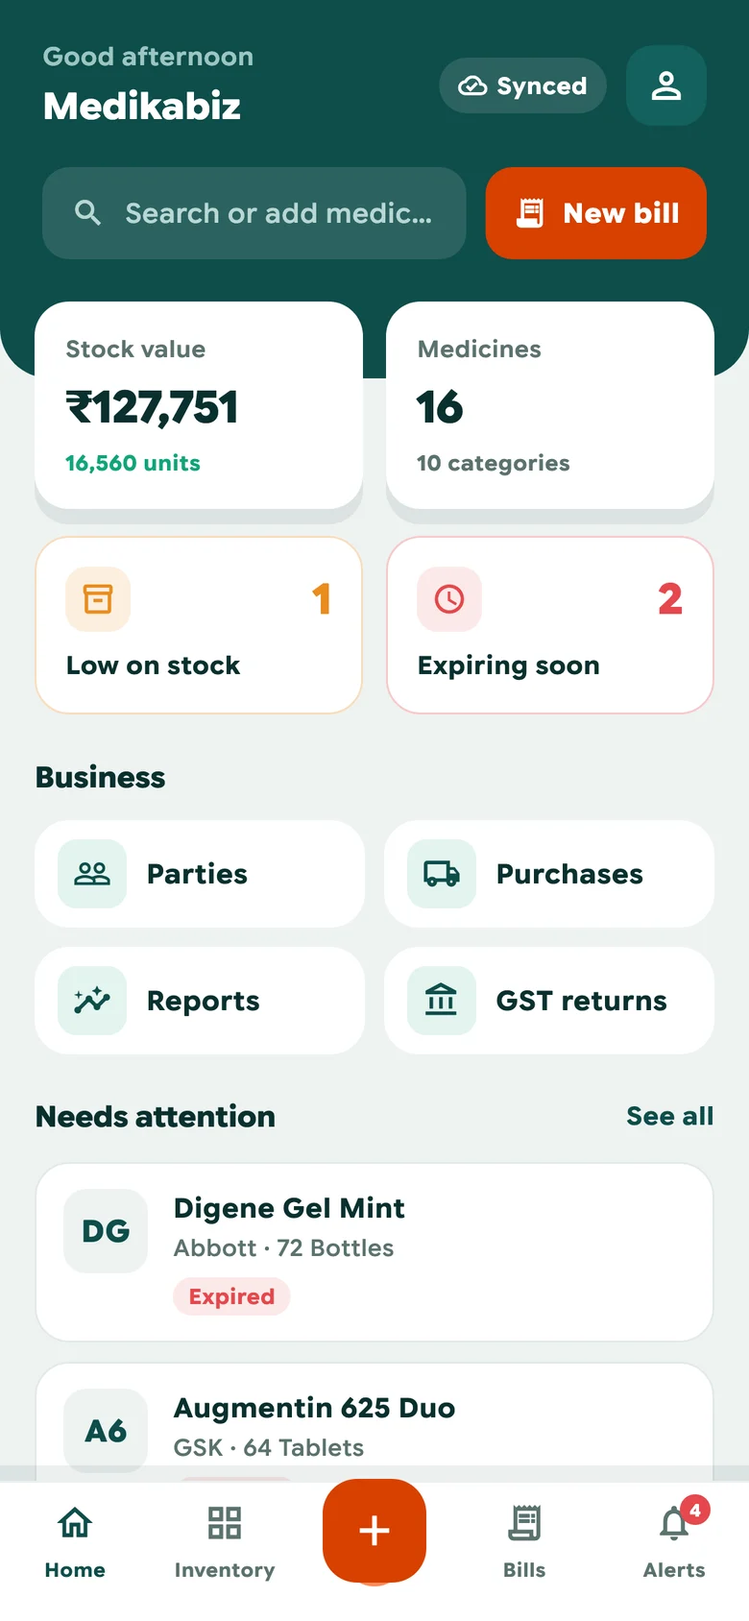
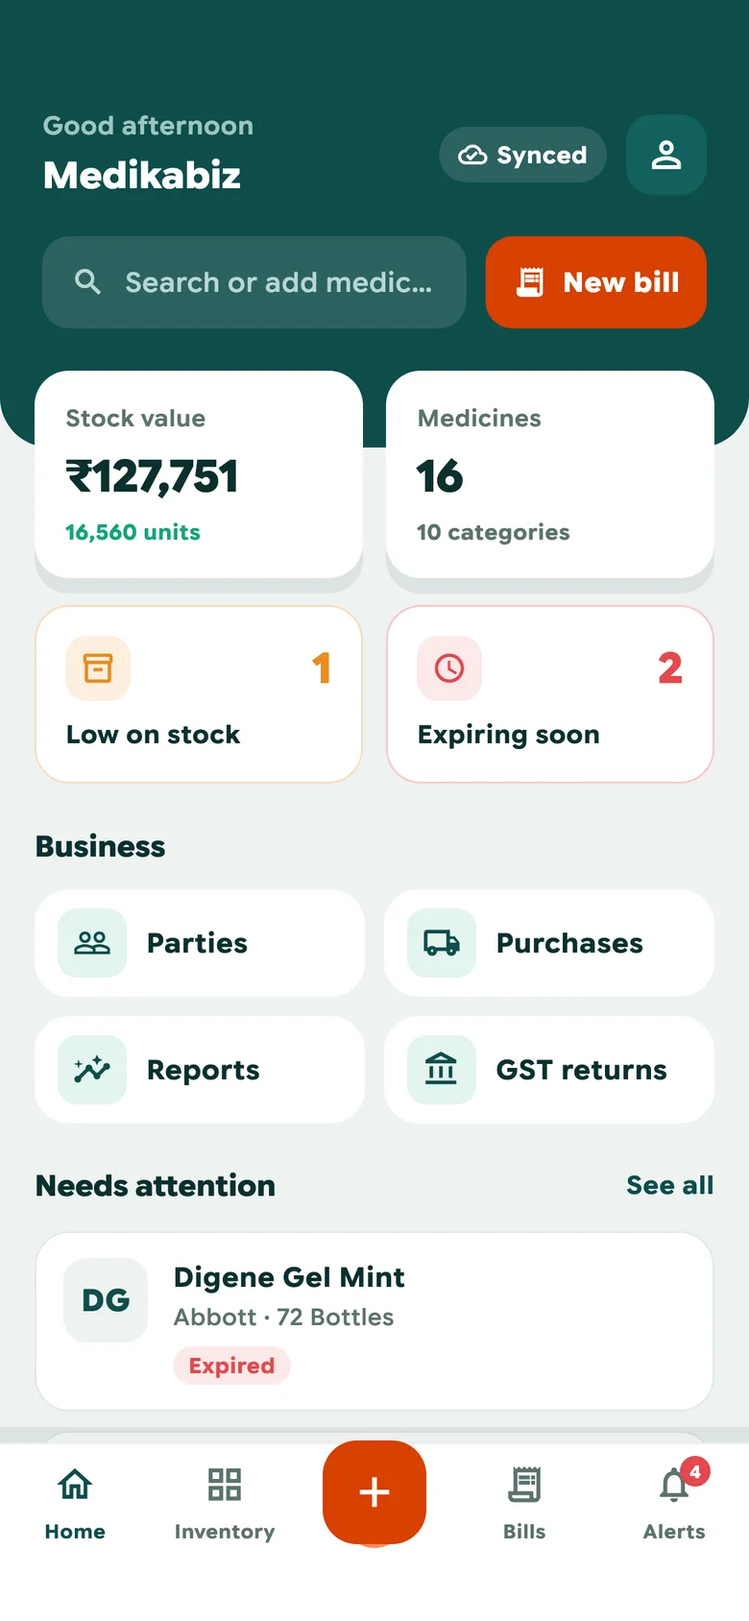
Website: header strip, downloads, full pricing cards and real device frames
The pricing cards held only a price, the header was part of the hero,
there was no way to download the app, and the phone screenshots had no
phone around them, so they looked drawn.

- The header is its own sticky strip (logo, sections, Start free trial);
  the logo has a transparent copy for it (medikabiz_logo_web.png).
- The hero has Android, Windows and Mac download buttons, and a Download
  section gives each device its file size, the systems it needs
  (Android 7+, Windows 10/11 64-bit, macOS 12+) and an install tip. The
  files go in public/downloads on the server (not in git).
- Pricing cards line up and each has a button and what is included;
  yearly shows 83 rupees a month.
- Phone screenshots are retaken with status and gesture bars and shown
  in a phone frame with the time, signal and battery; computer ones in
  an app window.

diff --git a/app/tool/website_screenshots_test.dart b/app/tool/website_screenshots_test.dart
@@ -76,6 +76,13 @@ Future<TestApp> _app(WidgetTester tester, Size size, double dpr,
     {FakeBackend? backend}) async {
   tester.view.physicalSize = size * dpr;
   tester.view.devicePixelRatio = dpr;
+  // A phone's status bar and gesture bar, so the app lays out as on a real
+  // phone; the website draws the status icons into that band.
+  if (size.width < 600) {
+    final FakeViewPadding bars = FakeViewPadding(top: 36 * dpr, bottom: 20 * dpr);
+    tester.view.padding = bars;
+    tester.view.viewPadding = bars;
+  }
   addTearDown(tester.view.reset);
   final TestApp app = await TestApp.create(signedIn: true, backend: backend);
   addTearDown(app.dispose);

diff --git a/backend/resources/views/website.blade.php b/backend/resources/views/website.blade.php
@@ -29,6 +29,7 @@
   --navy: #071D3B;
   --navy-2: #0E2A52;
   --navy-line: #1E3B66;
+  --head: #0A2448;
   --teal: #00B88D;
   --teal-ink: #00785C;
   --paper: #F3F7FA;
@@ -78,12 +79,21 @@ a:focus-visible, button:focus-visible, summary:focus-visible { outline: 3px soli
 @media (prefers-reduced-motion: reduce) { .btn { transition: none; } .btn:hover { transform: none; } }
 
 /* Header + hero */
-.top { display: flex; align-items: center; justify-content: space-between; gap: 16px; flex-wrap: wrap; margin-bottom: clamp(40px, 7vw, 72px); }
+.site-head { background: var(--head); border-bottom: 1px solid var(--navy-line); padding-left: max(16px, env(safe-area-inset-left, 0px)); padding-right: max(16px, env(safe-area-inset-right, 0px)); position: sticky; top: env(safe-area-inset-top, 0px); z-index: 20; }
+body::before { content: ""; position: fixed; inset: 0 0 auto; height: env(safe-area-inset-top, 0px); z-index: 21; background: var(--head); }
+.head-row { display: flex; align-items: center; justify-content: space-between; gap: 12px 24px; flex-wrap: wrap; padding-block: 12px; }
 .brand { display: block; line-height: 0; }
-.brand img { height: 44px; width: auto; }
-.nav { display: flex; gap: 6px 22px; flex-wrap: wrap; }
-.nav a { color: var(--mist); text-decoration: none; font-weight: 600; font-size: 0.95rem; padding: 10px 0; }
-.nav a:hover { color: #fff; }
+.brand img { height: 40px; width: auto; }
+.nav { display: flex; align-items: center; gap: 4px 22px; flex-wrap: wrap; }
+.nav a:not(.btn) { color: var(--mist); text-decoration: none; font-weight: 600; font-size: .95rem; padding: 12px 0; }
+.nav a:not(.btn):hover { color: #fff; }
+.btn-sm { min-height: 44px; padding: 0 18px; font-size: .92rem; border-radius: 12px; }
+.get { display: flex; flex-wrap: wrap; gap: 10px; }
+.store { display: inline-flex; align-items: center; gap: 10px; min-height: 52px; padding: 6px 16px 6px 12px; border-radius: 12px; background: #000; border: 1px solid #3A4B6E; color: #fff; text-decoration: none; font: 700 1.05rem/1.1 var(--display); }
+.store:hover { border-color: var(--teal); }
+.store svg { width: 26px; height: 26px; fill: currentColor; flex: none; }
+.store span { display: grid; }
+.store small { font: 500 .7rem/1.2 var(--body); color: #C9D3E3; }
 .hero { position: relative; overflow: hidden; }
 .hero::before, .hero::after { content: ""; position: absolute; border-radius: 50%; pointer-events: none; }
 .hero::before { width: 520px; height: 520px; right: -150px; top: -170px; background: var(--navy-2); box-shadow: 0 0 0 80px #0A2347; }
@@ -96,12 +106,31 @@ a:focus-visible, button:focus-visible, summary:focus-visible { outline: 3px soli
 .price-line { font: 700 1.45rem/1.2 var(--display); }
 .price-line span { color: var(--mist); font-weight: 600; font-size: 1rem; }
 .ctas { display: flex; flex-wrap: wrap; gap: 12px; }
-.platforms { color: var(--mist); font-size: .95rem; }
 
 .shots { position: relative; margin: 0 0 0 4%; min-width: 0; }
-.shots img { display: block; height: auto; }
-.shots .desk { width: 100%; border-radius: 14px; border: 1px solid var(--navy-line); box-shadow: 0 30px 70px rgba(0, 0, 0, .45); }
-.shots .hand { position: absolute; width: 27%; left: -9%; bottom: -12%; border-radius: 22px; border: 5px solid #0B1426; box-shadow: 0 24px 50px rgba(0, 0, 0, .5); }
+.shots .desk { box-shadow: 0 30px 70px rgba(0, 0, 0, .45); }
+.shots .hand { position: absolute; width: 28%; left: -10%; bottom: -14%; }
+
+/* Device frames around the real screenshots */
+.window { border-radius: 12px; overflow: hidden; border: 1px solid #C9D4DF; background: #fff; box-shadow: 0 16px 40px rgba(7, 29, 59, .14); }
+.window .bar { display: flex; align-items: center; justify-content: space-between; height: 32px; padding: 0 4px 0 12px; background: #E8EDF2; border-bottom: 1px solid #D6DEE6; color: #33435C; font: 600 .78rem/1 var(--body); }
+.window .bar-title { display: flex; align-items: center; gap: 8px; }
+.window .bar-ctl { display: flex; }
+.window .bar-ctl i { font-style: normal; width: 40px; text-align: center; color: #50617D; font-size: .8rem; }
+.window > img { display: block; width: 100%; height: auto; }
+.device { container-type: inline-size; }
+.device .frame { position: relative; padding: 2.8cqw; border-radius: 14cqw; background: linear-gradient(150deg, #2E3238, #0C0E11 60%); box-shadow: inset 0 0 0 .6cqw #464A52, inset 0 0 0 1.4cqw #15171B, 0 28px 60px rgba(4, 12, 28, .45); }
+.device .frame::before, .device .frame::after { content: ""; position: absolute; right: -1.1cqw; width: 1.2cqw; border-radius: 0 1cqw 1cqw 0; background: linear-gradient(90deg, #15171B, #3A3E45); }
+.device .frame::before { top: 20%; height: 7%; }
+.device .frame::after { top: 31%; height: 14%; }
+.device .screen { position: relative; overflow: hidden; border-radius: 11.4cqw; background: #000; }
+.device .screen img { display: block; width: 100%; height: auto; }
+.device .camera { position: absolute; z-index: 2; top: 2.6cqw; left: 50%; width: 3.8cqw; height: 3.8cqw; transform: translateX(-50%); border-radius: 50%; background: #050608; box-shadow: 0 0 0 .5cqw #1A1C21; }
+.device .status { position: absolute; z-index: 1; inset: 0 0 auto; height: 9.2cqw; display: flex; align-items: center; justify-content: space-between; padding: .6cqw 7cqw 0; font: 600 3.7cqw/1 -apple-system, "Segoe UI", Roboto, sans-serif; }
+.device .status.light { color: #fff; }
+.device .status.dark { color: #0A302E; }
+.device .sicons { display: flex; align-items: center; gap: 1.6cqw; }
+.device .sicons svg { height: 3.1cqw; width: auto; fill: currentColor; }
 
 .promise { margin-top: clamp(48px, 7vw, 80px); background: var(--navy-2); border: 1px solid var(--navy-line); border-radius: var(--radius); padding: 26px 28px; display: grid; grid-template-columns: auto 1fr; gap: 10px 28px; align-items: baseline; }
 .promise p { font: 700 clamp(1.15rem, 2.4vw, 1.5rem)/1.35 var(--display); }
@@ -117,8 +146,6 @@ a:focus-visible, button:focus-visible, summary:focus-visible { outline: 3px soli
 /* Screens */
 .gallery { display: grid; grid-template-columns: repeat(3, 1fr); gap: 20px; align-items: start; }
 .gallery figure { margin: 0; display: grid; gap: 12px; min-width: 0; }
-.gallery img { display: block; width: 100%; height: auto; border-radius: 18px; border: 1px solid var(--line); box-shadow: 0 14px 34px rgba(7, 29, 59, .12); }
-.gallery .tall img { border-radius: 26px; border: 5px solid var(--navy); }
 .gallery figcaption { color: var(--slate); font-size: .95rem; }
 .gallery figcaption b { color: var(--ink); font-family: var(--display); display: block; font-size: 1.05rem; }
 .gallery .wide { grid-column: 1 / -1; display: grid; grid-template-columns: 1.6fr 1fr; gap: 24px; align-items: center; }
@@ -142,20 +169,42 @@ a:focus-visible, button:focus-visible, summary:focus-visible { outline: 3px soli
 .step p { color: var(--slate); font-size: .95rem; }
 
 /* Pricing */
-.plans { display: grid; grid-template-columns: repeat(3, 1fr); gap: 18px; align-items: stretch; }
-.plan { border-radius: var(--radius); padding: 30px 26px; display: grid; gap: 12px; align-content: start; text-align: center; min-width: 0; }
+.plans { display: grid; grid-template-columns: repeat(3, 1fr); gap: 20px; align-items: stretch; }
+.plan { position: relative; border-radius: var(--radius); padding: 32px 28px; display: grid; grid-template-rows: subgrid; grid-row: span 3; gap: 24px; min-width: 0; }
 .plan.trialcard { background: var(--navy-2); border: 1px solid var(--navy-line); }
 .plan.paid { background: #fff; color: var(--ink); }
-.plan.best { box-shadow: 0 0 0 3px var(--teal); }
+.plan.best { box-shadow: 0 0 0 3px var(--teal), 0 24px 60px rgba(0, 0, 0, .35); }
+.plan-top { display: grid; gap: 6px; }
 .plan .name { font: 700 .82rem/1 var(--display); letter-spacing: .12em; text-transform: uppercase; color: var(--slate); }
 .plan.trialcard .name { color: var(--teal); }
-.plan .amount { font: 800 3rem/1 var(--display); font-variant-numeric: tabular-nums; }
+.plan .amount { font: 800 3.4rem/1 var(--display); font-variant-numeric: tabular-nums; margin-top: 10px; }
 .plan .per { color: var(--slate); font-weight: 600; }
-.plan.trialcard .per { color: var(--mist); }
-.plan .save { color: var(--teal-ink); font-weight: 700; }
-.badge { justify-self: center; background: var(--teal); color: var(--navy); font: 700 .72rem/1 var(--display); letter-spacing: .1em; text-transform: uppercase; padding: 7px 10px; border-radius: 999px; }
+.plan.trialcard .per, .plan.trialcard .note { color: var(--mist); }
+.plan .note { color: var(--slate); font-size: .95rem; margin-top: 8px; }
+.plan .note b { color: var(--teal-ink); }
+.plan .btn { width: 100%; }
+.btn-navy { background: var(--navy); color: #fff; }
+.btn-navy:hover { background: var(--navy-2); }
+.includes { list-style: none; margin: 0; padding: 22px 0 0; border-top: 1px solid var(--line); display: grid; gap: 12px; font-size: .96rem; }
+.trialcard .includes { border-color: var(--navy-line); color: #DCE6F3; }
+.includes li { display: grid; grid-template-columns: 22px 1fr; gap: 10px; align-items: start; }
+.includes svg { width: 22px; height: 22px; fill: none; stroke: var(--teal-ink); stroke-width: 2.4; stroke-linecap: round; stroke-linejoin: round; }
+.trialcard .includes svg { stroke: var(--teal); }
+.badge { position: absolute; top: -14px; left: 28px; background: var(--teal); color: var(--navy); font: 700 .72rem/1 var(--display); letter-spacing: .1em; text-transform: uppercase; padding: 8px 12px; border-radius: 999px; }
 .devices { margin-top: 28px; display: flex; flex-wrap: wrap; gap: 10px 26px; color: var(--mist); }
 .devices b { color: #fff; }
+
+/* Download */
+.downloads { display: grid; grid-template-columns: repeat(3, 1fr); gap: 20px; }
+.dl { background: var(--card); border: 1px solid var(--line); border-radius: var(--radius); padding: 28px; display: grid; grid-template-rows: subgrid; grid-row: span 5; gap: 12px; min-width: 0; }
+.dl-icon { width: 56px; height: 56px; border-radius: 16px; background: var(--navy); display: grid; place-items: center; }
+.dl-icon svg { width: 30px; height: 30px; fill: #fff; }
+.dl .req { color: var(--slate); font-weight: 600; font-size: .95rem; }
+.dl .btn { width: 100%; }
+.dl .tip { color: var(--slate); font-size: .92rem; }
+.dl .tip b { color: var(--ink); }
+.dl-help { margin-top: 24px; color: var(--slate); }
+.dl-help b { color: var(--ink); user-select: all; }
 
 /* Mission */
 .mission { display: grid; grid-template-columns: auto 1fr 1fr; gap: 28px 40px; align-items: center; }
@@ -182,7 +231,9 @@ footer { border-top: 1px solid var(--navy-line); margin-top: 56px; padding-top: 
 
 @media (max-width: 900px) {
   .hero-grid, .closing { grid-template-columns: 1fr; }
-  .features, .trio, .plans { grid-template-columns: 1fr 1fr; }
+  .nav a:not(.btn) { display: none; }
+  .features, .trio { grid-template-columns: 1fr 1fr; }
+  .plans, .downloads { grid-template-columns: 1fr; max-width: 520px; margin: 0 auto; }
   .feature.wide { grid-column: span 2; grid-template-columns: auto 1fr; }
   .feature.wide .btn { grid-column: 1 / -1; justify-self: start; }
   .day { grid-template-columns: 1fr 1fr; }
@@ -198,7 +249,7 @@ footer { border-top: 1px solid var(--navy-line); margin-top: 56px; padding-top: 
   .feature.wide { grid-column: auto; grid-template-columns: 1fr; }
   .promise { grid-template-columns: 1fr; }
   .gallery { grid-template-columns: 1fr; }
-  .gallery .tall { max-width: 300px; justify-self: center; }
+  .gallery .tall { max-width: 300px; width: 100%; justify-self: center; }
   .hero::before { width: 360px; height: 360px; right: -200px; top: -200px; box-shadow: 0 0 0 50px #0A2347; }
   .hero::after { width: 110px; height: 110px; right: -30px; top: -30px; }
 }
@@ -206,17 +257,21 @@ footer { border-top: 1px solid var(--navy-line); margin-top: 56px; padding-top: 
 </head>
 <body>
 
+<header class="site-head">
+  <div class="wrap head-row">
+    <a class="brand" href="#"><img src="/images/medikabiz_logo_web.png" alt="Medikabiz" width="168" height="44"></a>
+    <nav class="nav" aria-label="Sections">
+      <a href="#features">Features</a>
+      <a href="#pricing">Pricing</a>
+      <a href="#download">Download</a>
+      <a href="#faq">Questions</a>
+      <a class="btn btn-teal btn-sm" href="#contact">Start free trial</a>
+    </nav>
+  </div>
+</header>
+
 <section class="band dark hero">
   <div class="wrap">
-    <header class="top">
-      <a class="brand" href="#"><img src="/images/medikabiz_logo_dark.png" alt="Medikabiz" width="168" height="44"></a>
-      <nav class="nav" aria-label="Sections">
-        <a href="#features">Features</a>
-        <a href="#pricing">Pricing</a>
-        <a href="#faq">Questions</a>
-        <a href="#contact">Contact</a>
-      </nav>
-    </header>
     <div class="hero-grid">
       <div class="hero-copy">
         <span class="trial">7-day free trial</span>
@@ -227,11 +282,15 @@ footer { border-top: 1px solid var(--navy-line); margin-top: 56px; padding-top: 
           <a class="btn btn-teal" href="#contact">Start free for 7 days</a>
           <a class="btn btn-ghost" href="#features">See what it does</a>
         </div>
-        <p class="platforms">Android phone · Windows computer · Mac</p>
+        <div class="get" aria-label="Download the app">
+          <a class="store" href="/downloads/Medikabiz.apk"><svg viewBox="0 0 24 24" aria-hidden="true"><path d="M7 9.5h10V17a1 1 0 0 1-1 1h-1v2.5a1 1 0 0 1-2 0V18h-2v2.5a1 1 0 0 1-2 0V18H8a1 1 0 0 1-1-1zM5 10a1 1 0 0 1 2 0v5a1 1 0 0 1-2 0zm12 0a1 1 0 0 1 2 0v5a1 1 0 0 1-2 0zM7.2 8.5a4.8 4.8 0 0 1 2.3-3.6L8.6 3.4a.4.4 0 0 1 .7-.4l.9 1.5a5 5 0 0 1 3.6 0l.9-1.5a.4.4 0 0 1 .7.4l-.9 1.5a4.8 4.8 0 0 1 2.3 3.6zM10 6.6a.7.7 0 1 0 0 1.4.7.7 0 0 0 0-1.4zm4 0a.7.7 0 1 0 0 1.4.7.7 0 0 0 0-1.4z"/></svg><span><small>Download for</small>Android</span></a>
+          <a class="store" href="/downloads/Medikabiz-Setup.exe"><svg viewBox="0 0 24 24" aria-hidden="true"><path d="M3 5.3l7.4-1v7.2H3zm8.4-1.2L21 2.8v8.7h-9.6zM3 12.5h7.4v7.2L3 18.7zm8.4 0H21v8.7l-9.6-1.3z"/></svg><span><small>Download for</small>Windows</span></a>
+          <a class="store" href="/downloads/Medikabiz.dmg"><svg viewBox="0 0 24 24" aria-hidden="true"><path d="M16.4 12.6c0-2.4 2-3.6 2.1-3.7a4.5 4.5 0 0 0-3.5-1.9c-1.5-.2-2.9.9-3.7.9-.8 0-1.9-.9-3.2-.8A4.7 4.7 0 0 0 4.2 9.5c-1.7 2.9-.4 7.3 1.2 9.7.8 1.2 1.8 2.5 3 2.4 1.2 0 1.7-.8 3.2-.8s1.9.8 3.2.8c1.3 0 2.2-1.2 3-2.4a10 10 0 0 0 1.3-2.8 4.3 4.3 0 0 1-2.7-3.8zM14 5.5a4.3 4.3 0 0 0 1-3.1 4.4 4.4 0 0 0-2.9 1.5 4.1 4.1 0 0 0-1 3 3.7 3.7 0 0 0 2.9-1.4z"/></svg><span><small>Download for</small>Mac</span></a>
+        </div>
       </div>
       <figure class="shots">
-        <img class="desk" src="/images/screens/desktop-home.webp" width="1600" height="1000" alt="Medikabiz on a computer: stock value, medicines that need attention and quick actions">
-        <img class="hand" src="/images/screens/phone-home.webp" width="780" height="1688" alt="Medikabiz on an Android phone: home screen with stock value and alerts">
+        <div class="window desk"><div class="bar"><span class="bar-title"><img src="/images/favicon.svg" alt="" width="14" height="14">Medikabiz</span><span class="bar-ctl" aria-hidden="true"><i>–</i><i>▢</i><i>✕</i></span></div><img src="/images/screens/desktop-home.webp" width="1600" height="1000" alt="Medikabiz on a computer: stock value, medicines that need attention and quick actions"></div>
+        <div class="device hand"><div class="frame"><div class="screen"><div class="status light"><span>9:41</span><span class="sicons"><svg viewBox="0 0 18 12"><path d="M1 11h2V8H1zm4 0h2V6H5zm4 0h2V4H9zm4 0h2V1h-2z"/></svg><svg viewBox="0 0 16 12"><path d="M8 11.5 1 4.3a10 10 0 0 1 14 0zm0-2.8 3.4-3.5a5 5 0 0 0-6.8 0z" fill-opacity=".35"/><path d="M8 11.5 4.6 8.1a4.8 4.8 0 0 1 6.8 0z"/></svg><svg viewBox="0 0 26 12"><rect x=".5" y=".5" width="21" height="11" rx="3" fill="none" stroke="currentColor" stroke-opacity=".5"/><rect x="2" y="2" width="16" height="8" rx="1.8"/><rect x="23" y="4" width="2" height="4" rx="1" fill-opacity=".5"/></svg></span></div><span class="camera"></span><img src="/images/screens/phone-home.webp" width="780" height="1688" alt="Medikabiz on an Android phone: home screen with stock value and alerts"></div></div></div>
       </figure>
     </div>
     <div class="promise">
@@ -265,19 +324,19 @@ footer { border-top: 1px solid var(--navy-line); margin-top: 56px; padding-top: 
     </div>
     <div class="gallery">
       <figure class="wide">
-        <img src="/images/screens/desktop-inventory.webp" width="1600" height="1000" loading="lazy" alt="Inventory table on a computer with stock, batches, MRP, nearest expiry and status for each medicine">
+        <div class="window"><div class="bar"><span class="bar-title"><img src="/images/favicon.svg" alt="" width="14" height="14">Medikabiz</span><span class="bar-ctl" aria-hidden="true"><i>–</i><i>▢</i><i>✕</i></span></div><img src="/images/screens/desktop-inventory.webp" width="1600" height="1000" loading="lazy" alt="Inventory table on a computer with stock, batches, MRP, nearest expiry and status for each medicine"></div>
         <figcaption><b>Every medicine, every batch</b>Stock in strips and loose tablets, MRP, the nearest expiry and a clear status. Filter to low stock, expiring soon or expired in one tap.</figcaption>
       </figure>
       <figure class="tall">
-        <img src="/images/screens/phone-new-bill.webp" width="780" height="1688" loading="lazy" alt="New bill on a phone with Dolo 650, Allegra 120 and Pan 40, total 437 rupees">
+        <div class="device "><div class="frame"><div class="screen"><div class="status dark"><span>9:41</span><span class="sicons"><svg viewBox="0 0 18 12"><path d="M1 11h2V8H1zm4 0h2V6H5zm4 0h2V4H9zm4 0h2V1h-2z"/></svg><svg viewBox="0 0 16 12"><path d="M8 11.5 1 4.3a10 10 0 0 1 14 0zm0-2.8 3.4-3.5a5 5 0 0 0-6.8 0z" fill-opacity=".35"/><path d="M8 11.5 4.6 8.1a4.8 4.8 0 0 1 6.8 0z"/></svg><svg viewBox="0 0 26 12"><rect x=".5" y=".5" width="21" height="11" rx="3" fill="none" stroke="currentColor" stroke-opacity=".5"/><rect x="2" y="2" width="16" height="8" rx="1.8"/><rect x="23" y="4" width="2" height="4" rx="1" fill-opacity=".5"/></svg></span></div><span class="camera"></span><img src="/images/screens/phone-new-bill.webp" width="780" height="1688" loading="lazy" alt="New bill on a phone with Dolo 650, Allegra 120 and Pan 40, total 437 rupees"></div></div></div>
         <figcaption><b>Bill at the counter</b>Search or scan, pick the batch, add strips or loose tablets. GST is worked out for you.</figcaption>
       </figure>
       <figure class="tall">
-        <img src="/images/screens/phone-alerts.webp" width="780" height="1688" loading="lazy" alt="Alerts on a phone listing expired, expiring and low-stock medicines">
+        <div class="device "><div class="frame"><div class="screen"><div class="status dark"><span>9:41</span><span class="sicons"><svg viewBox="0 0 18 12"><path d="M1 11h2V8H1zm4 0h2V6H5zm4 0h2V4H9zm4 0h2V1h-2z"/></svg><svg viewBox="0 0 16 12"><path d="M8 11.5 1 4.3a10 10 0 0 1 14 0zm0-2.8 3.4-3.5a5 5 0 0 0-6.8 0z" fill-opacity=".35"/><path d="M8 11.5 4.6 8.1a4.8 4.8 0 0 1 6.8 0z"/></svg><svg viewBox="0 0 26 12"><rect x=".5" y=".5" width="21" height="11" rx="3" fill="none" stroke="currentColor" stroke-opacity=".5"/><rect x="2" y="2" width="16" height="8" rx="1.8"/><rect x="23" y="4" width="2" height="4" rx="1" fill-opacity=".5"/></svg></span></div><span class="camera"></span><img src="/images/screens/phone-alerts.webp" width="780" height="1688" loading="lazy" alt="Alerts on a phone listing expired, expiring and low-stock medicines"></div></div></div>
         <figcaption><b>Alerts before it's too late</b>Expired, expiring soon and low-stock medicines in one list.</figcaption>
       </figure>
       <figure class="tall">
-        <img src="/images/screens/phone-supplier-bills.webp" width="780" height="1688" loading="lazy" alt="Supplier bills on a phone: two being read, three ready to check">
+        <div class="device "><div class="frame"><div class="screen"><div class="status dark"><span>9:41</span><span class="sicons"><svg viewBox="0 0 18 12"><path d="M1 11h2V8H1zm4 0h2V6H5zm4 0h2V4H9zm4 0h2V1h-2z"/></svg><svg viewBox="0 0 16 12"><path d="M8 11.5 1 4.3a10 10 0 0 1 14 0zm0-2.8 3.4-3.5a5 5 0 0 0-6.8 0z" fill-opacity=".35"/><path d="M8 11.5 4.6 8.1a4.8 4.8 0 0 1 6.8 0z"/></svg><svg viewBox="0 0 26 12"><rect x=".5" y=".5" width="21" height="11" rx="3" fill="none" stroke="currentColor" stroke-opacity=".5"/><rect x="2" y="2" width="16" height="8" rx="1.8"/><rect x="23" y="4" width="2" height="4" rx="1" fill-opacity=".5"/></svg></span></div><span class="camera"></span><img src="/images/screens/phone-supplier-bills.webp" width="780" height="1688" loading="lazy" alt="Supplier bills on a phone: two being read, three ready to check"></div></div></div>
         <figcaption><b>Supplier bills, read for you</b>Add a pile of bills at once. Each one is ready to check in moments.</figcaption>
       </figure>
     </div>
@@ -374,25 +433,97 @@ footer { border-top: 1px solid var(--navy-line); margin-top: 56px; padding-top: 
     </div>
     <div class="plans">
       <div class="plan trialcard">
-        <span class="name">Free trial</span>
-        <span class="amount">₹0</span>
-        <span class="per">7 days, every feature</span>
-        <a class="btn btn-teal" href="#contact">Start free</a>
+        <div class="plan-top">
+          <span class="name">Free trial</span>
+          <p class="amount">₹0</p>
+          <p class="per">for 7 days</p>
+          <p class="note">Try the whole app in your own shop before you pay.</p>
+        </div>
+        <a class="btn btn-teal" href="#contact">Start free trial</a>
+        <ul class="includes">
+          <li><svg viewBox="0 0 24 24" aria-hidden="true"><path d="M5 12.5l4.5 4.5L19 7.5"/></svg>Every feature, nothing locked</li>
+          <li><svg viewBox="0 0 24 24" aria-hidden="true"><path d="M5 12.5l4.5 4.5L19 7.5"/></svg>Set up your shop and bring in your stock</li>
+          <li><svg viewBox="0 0 24 24" aria-hidden="true"><path d="M5 12.5l4.5 4.5L19 7.5"/></svg>Nothing to pay to start</li>
+          <li><svg viewBox="0 0 24 24" aria-hidden="true"><path d="M5 12.5l4.5 4.5L19 7.5"/></svg>Your data stays when you choose a plan</li>
+        </ul>
       </div>
       <div class="plan paid">
-        <span class="name">Monthly</span>
-        <span class="amount">₹99</span>
-        <span class="per">per month</span>
+        <div class="plan-top">
+          <span class="name">Monthly</span>
+          <p class="amount">₹99</p>
+          <p class="per">per month</p>
+          <p class="note">Pay month by month.</p>
+        </div>
+        <a class="btn btn-navy" href="#contact">Choose monthly</a>
+        <ul class="includes">
+          <li><svg viewBox="0 0 24 24" aria-hidden="true"><path d="M5 12.5l4.5 4.5L19 7.5"/></svg>Unlimited medicines, batches and bills</li>
+          <li><svg viewBox="0 0 24 24" aria-hidden="true"><path d="M5 12.5l4.5 4.5L19 7.5"/></svg>GST bills on A4 or 80 mm printers, shared on WhatsApp</li>
+          <li><svg viewBox="0 0 24 24" aria-hidden="true"><path d="M5 12.5l4.5 4.5L19 7.5"/></svg>Low-stock and expiry alerts, daily reminder</li>
+          <li><svg viewBox="0 0 24 24" aria-hidden="true"><path d="M5 12.5l4.5 4.5L19 7.5"/></svg>Customer balances and payment follow-up</li>
+          <li><svg viewBox="0 0 24 24" aria-hidden="true"><path d="M5 12.5l4.5 4.5L19 7.5"/></svg>Purchases, suppliers and returns</li>
+          <li><svg viewBox="0 0 24 24" aria-hidden="true"><path d="M5 12.5l4.5 4.5L19 7.5"/></svg>Reports, profit and GST-ready data</li>
+          <li><svg viewBox="0 0 24 24" aria-hidden="true"><path d="M5 12.5l4.5 4.5L19 7.5"/></svg>Supplier bills read from photos and PDFs</li>
+          <li><svg viewBox="0 0 24 24" aria-hidden="true"><path d="M5 12.5l4.5 4.5L19 7.5"/></svg>Phone and computer, always in sync</li>
+          <li><svg viewBox="0 0 24 24" aria-hidden="true"><path d="M5 12.5l4.5 4.5L19 7.5"/></svg>WhatsApp support</li>
+        </ul>
       </div>
       <div class="plan paid best">
         <span class="badge">Best value</span>
-        <span class="name">Yearly</span>
-        <span class="amount">₹999</span>
-        <span class="per">per year</span>
-        <span class="save">Save ₹189 compared with 12 monthly payments</span>
+        <div class="plan-top">
+          <span class="name">Yearly</span>
+          <p class="amount">₹999</p>
+          <p class="per">per year</p>
+          <p class="note"><b>Just ₹83 a month</b>, billed yearly. Save ₹189 compared with paying monthly.</p>
+        </div>
+        <a class="btn btn-teal" href="#contact">Choose yearly</a>
+        <ul class="includes">
+          <li><svg viewBox="0 0 24 24" aria-hidden="true"><path d="M5 12.5l4.5 4.5L19 7.5"/></svg>Unlimited medicines, batches and bills</li>
+          <li><svg viewBox="0 0 24 24" aria-hidden="true"><path d="M5 12.5l4.5 4.5L19 7.5"/></svg>GST bills on A4 or 80 mm printers, shared on WhatsApp</li>
+          <li><svg viewBox="0 0 24 24" aria-hidden="true"><path d="M5 12.5l4.5 4.5L19 7.5"/></svg>Low-stock and expiry alerts, daily reminder</li>
+          <li><svg viewBox="0 0 24 24" aria-hidden="true"><path d="M5 12.5l4.5 4.5L19 7.5"/></svg>Customer balances and payment follow-up</li>
+          <li><svg viewBox="0 0 24 24" aria-hidden="true"><path d="M5 12.5l4.5 4.5L19 7.5"/></svg>Purchases, suppliers and returns</li>
+          <li><svg viewBox="0 0 24 24" aria-hidden="true"><path d="M5 12.5l4.5 4.5L19 7.5"/></svg>Reports, profit and GST-ready data</li>
+          <li><svg viewBox="0 0 24 24" aria-hidden="true"><path d="M5 12.5l4.5 4.5L19 7.5"/></svg>Supplier bills read from photos and PDFs</li>
+          <li><svg viewBox="0 0 24 24" aria-hidden="true"><path d="M5 12.5l4.5 4.5L19 7.5"/></svg>Phone and computer, always in sync</li>
+          <li><svg viewBox="0 0 24 24" aria-hidden="true"><path d="M5 12.5l4.5 4.5L19 7.5"/></svg>WhatsApp support</li>
+        </ul>
       </div>
     </div>
     <div class="devices"><span><b>Android</b> phone</span><span><b>Windows</b> computer</span><span><b>Mac</b></span><span>One account for all your shop's devices</span></div>
+  </div>
+</section>
+
+<section class="band" id="download" aria-labelledby="dlh">
+  <div class="wrap">
+    <div class="head">
+      <span class="eyebrow">Download</span>
+      <h2 id="dlh">Get Medikabiz on every device in your shop</h2>
+      <p class="lede">One account works on all of them: bill at the counter computer, check stock on your phone. Install, sign up, and your 7-day trial starts.</p>
+    </div>
+    <div class="downloads">
+      <article class="dl">
+        <div class="dl-icon"><svg viewBox="0 0 24 24" aria-hidden="true"><path d="M7 9.5h10V17a1 1 0 0 1-1 1h-1v2.5a1 1 0 0 1-2 0V18h-2v2.5a1 1 0 0 1-2 0V18H8a1 1 0 0 1-1-1zM5 10a1 1 0 0 1 2 0v5a1 1 0 0 1-2 0zm12 0a1 1 0 0 1 2 0v5a1 1 0 0 1-2 0zM7.2 8.5a4.8 4.8 0 0 1 2.3-3.6L8.6 3.4a.4.4 0 0 1 .7-.4l.9 1.5a5 5 0 0 1 3.6 0l.9-1.5a.4.4 0 0 1 .7.4l-.9 1.5a4.8 4.8 0 0 1 2.3 3.6zM10 6.6a.7.7 0 1 0 0 1.4.7.7 0 0 0 0-1.4zm4 0a.7.7 0 1 0 0 1.4.7.7 0 0 0 0-1.4z"/></svg></div>
+        <h3>Android phone or tablet</h3>
+        <p class="req">Android 7.0 or newer · 101 MB</p>
+        <a class="btn btn-navy" href="/downloads/Medikabiz.apk">Download for Android</a>
+        <p class="tip">Open the downloaded file and tap <b>Install</b>. If your phone asks, allow installing apps from your browser.</p>
+      </article>
+      <article class="dl">
+        <div class="dl-icon"><svg viewBox="0 0 24 24" aria-hidden="true"><path d="M3 5.3l7.4-1v7.2H3zm8.4-1.2L21 2.8v8.7h-9.6zM3 12.5h7.4v7.2L3 18.7zm8.4 0H21v8.7l-9.6-1.3z"/></svg></div>
+        <h3>Windows computer</h3>
+        <p class="req">Windows 10 or 11, 64-bit · 21 MB</p>
+        <a class="btn btn-navy" href="/downloads/Medikabiz-Setup.exe">Download for Windows</a>
+        <p class="tip">Run the installer. If Windows shows "Windows protected your PC", click <b>More info</b>, then <b>Run anyway</b>.</p>
+      </article>
+      <article class="dl">
+        <div class="dl-icon"><svg viewBox="0 0 24 24" aria-hidden="true"><path d="M16.4 12.6c0-2.4 2-3.6 2.1-3.7a4.5 4.5 0 0 0-3.5-1.9c-1.5-.2-2.9.9-3.7.9-.8 0-1.9-.9-3.2-.8A4.7 4.7 0 0 0 4.2 9.5c-1.7 2.9-.4 7.3 1.2 9.7.8 1.2 1.8 2.5 3 2.4 1.2 0 1.7-.8 3.2-.8s1.9.8 3.2.8c1.3 0 2.2-1.2 3-2.4a10 10 0 0 0 1.3-2.8 4.3 4.3 0 0 1-2.7-3.8zM14 5.5a4.3 4.3 0 0 0 1-3.1 4.4 4.4 0 0 0-2.9 1.5 4.1 4.1 0 0 0-1 3 3.7 3.7 0 0 0 2.9-1.4z"/></svg></div>
+        <h3>Mac</h3>
+        <p class="req">macOS 12 or newer · 35 MB</p>
+        <a class="btn btn-navy" href="/downloads/Medikabiz.dmg">Download for Mac</a>
+        <p class="tip">Open the file and drag <b>Medikabiz</b> into your Applications folder.</p>
+      </article>
+    </div>
+    <p class="dl-help">Need help installing? Message us on WhatsApp at <b>+91 70537 92466</b> and we'll set it up with you.</p>
   </div>
 </section>
 

diff --git a/backend/tests/Feature/AdminPanelSmokeTest.php b/backend/tests/Feature/AdminPanelSmokeTest.php
@@ -109,7 +109,7 @@ class AdminPanelSmokeTest extends TestCase
             ->assertOk()
             ->assertSee('The smarter way')
             ->assertSee('₹99')
-            ->assertSee('medikabiz_logo_dark.png')
+            ->assertSee('medikabiz_logo_web.png')
             // A shared link shows the logo card (WhatsApp, Facebook, LinkedIn).
             ->assertSee('<meta property="og:image" content="http', false)
             ->assertSee('/images/og-medikabiz.png">', false)
